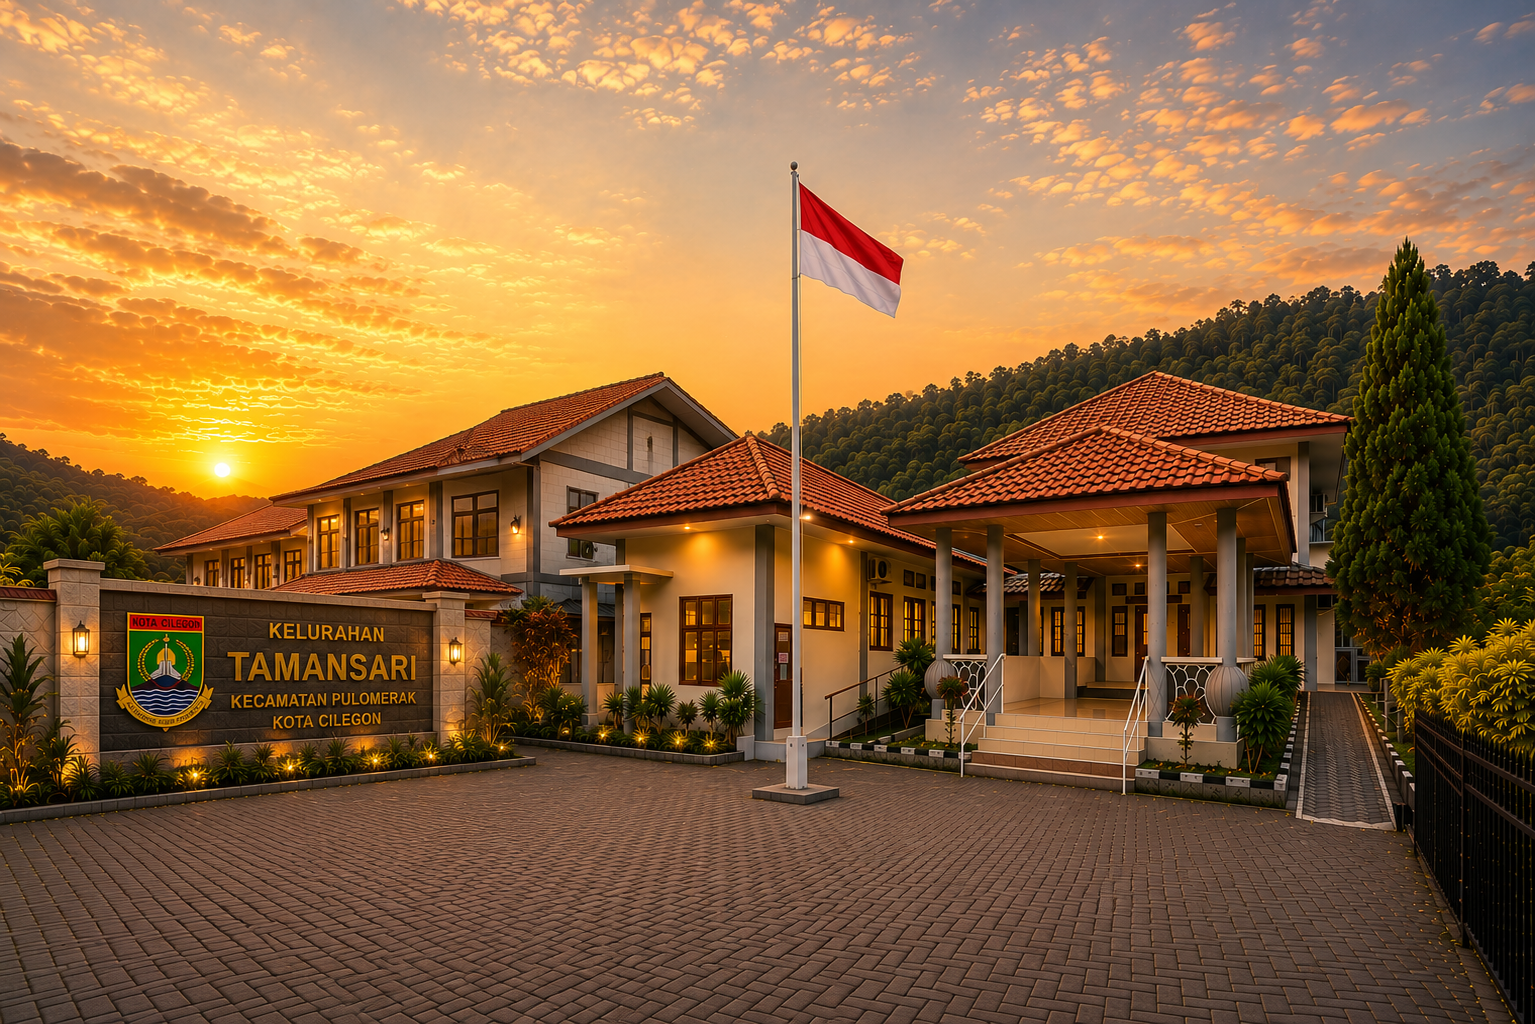
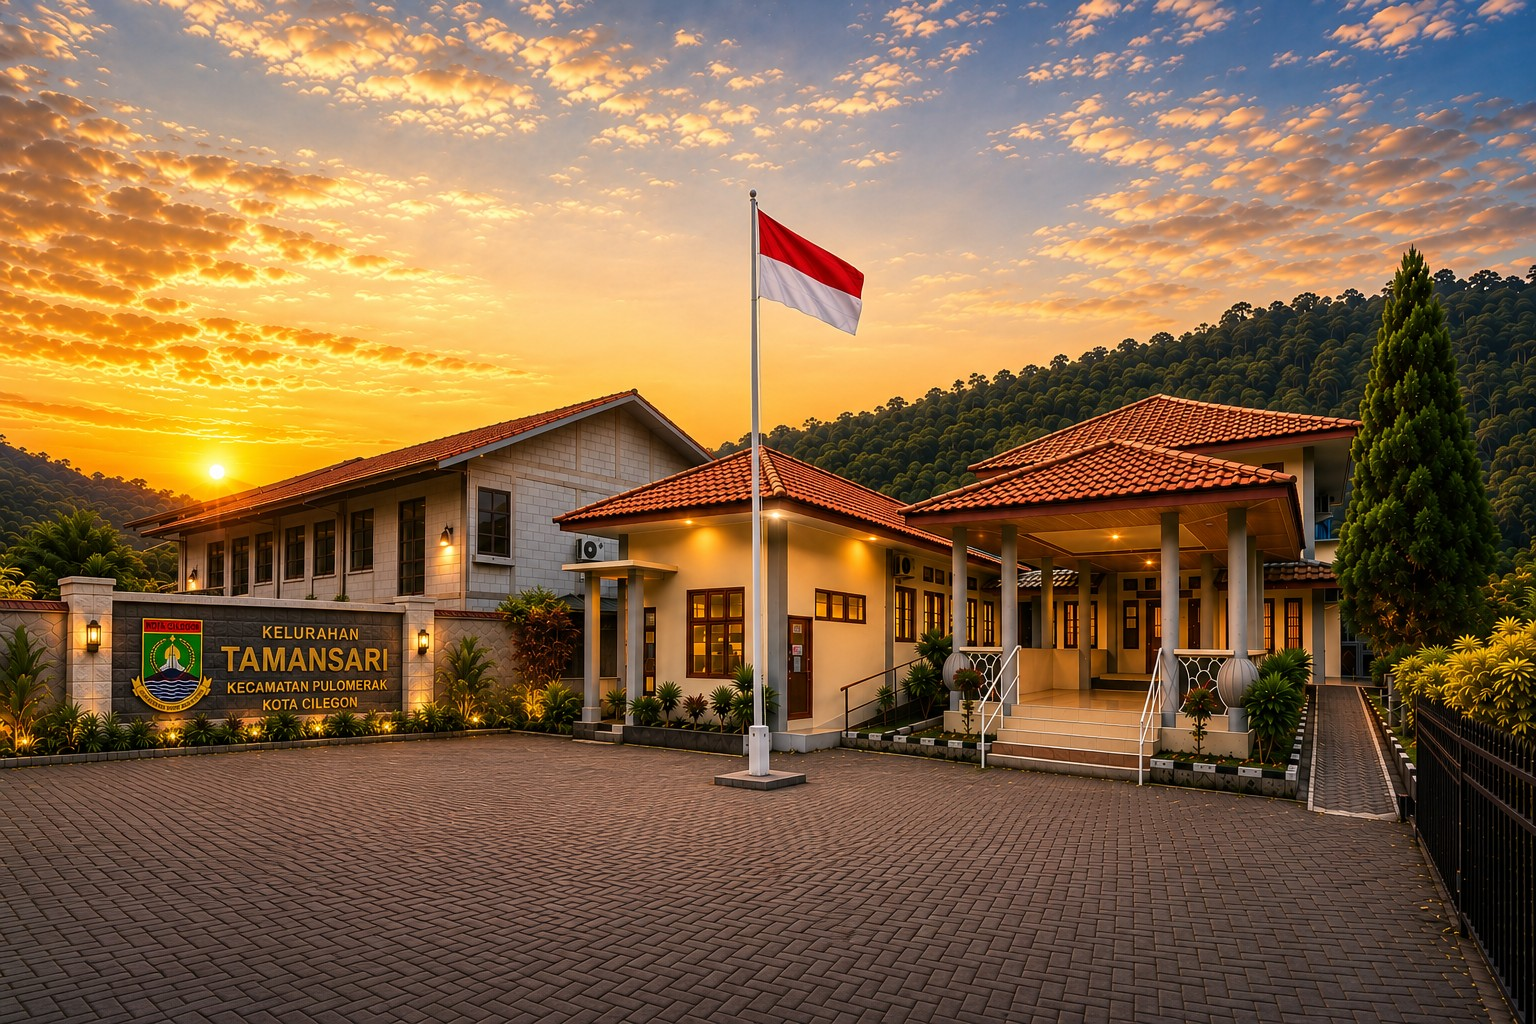
hapus login warga di hamburger

diff --git a/components/layout/navbar.tsx b/components/layout/navbar.tsx
@@ -177,24 +177,6 @@ export function Navbar() {
                                 </div>
 
                                 <div className="mt-8 space-y-2">
-                                    <div className="rounded-2xl border border-border-soft bg-gov-50/50 p-3">
-                                        <p className="flex items-center gap-2 px-2 pb-2 text-xs font-black uppercase tracking-[.18em] text-accent-600"><UserRound size={14} /> Akun Warga</p>
-                                        {user ? (
-                                            <>
-                                                <p className="rounded-2xl bg-white px-4 py-3 text-sm font-black text-gov-950">{profile?.nama_lengkap ?? "Akun Warga"}</p>
-                                                {!isVerified(profile) ? <p className="mt-2 rounded-2xl bg-amber-50 px-4 py-3 text-xs font-bold leading-5 text-amber-700">Akun Anda sedang menunggu verifikasi.</p> : null}
-                                                <div className="my-2 h-px bg-gov-100" />
-                                                {wargaMenu.map(({ label, href, icon: Icon }) => <Link key={href} href={href as Route} onClick={() => setOpen(false)} className="flex items-center justify-between rounded-2xl px-4 py-3 text-base font-bold text-gov-950 transition hover:bg-white"><span className="flex items-center gap-3"><Icon size={18} className="text-gov-800" />{label}</span><ChevronRight size={18} className="text-slate-400" /></Link>)}
-                                                <button type="button" onClick={signOut} className="flex w-full items-center justify-between rounded-2xl px-4 py-3 text-base font-bold text-red-600 transition hover:bg-white">Keluar<LogOut size={18} /></button>
-                                            </>
-                                        ) : (
-                                            <>
-                                                <Link href="/login" onClick={() => setOpen(false)} className="flex items-center justify-between rounded-2xl px-4 py-3 text-base font-bold text-gov-950 transition hover:bg-white"><span className="flex items-center gap-3"><LogIn size={18} className="text-gov-800" />Masuk</span><ChevronRight size={18} className="text-slate-400" /></Link>
-                                                <Link href="/register" onClick={() => setOpen(false)} className="flex items-center justify-between rounded-2xl px-4 py-3 text-base font-bold text-gov-950 transition hover:bg-white"><span className="flex items-center gap-3"><UserPlus size={18} className="text-gov-800" />Daftar Akun</span><ChevronRight size={18} className="text-slate-400" /></Link>
-                                                <Link href="/login?mode=forgot" onClick={() => setOpen(false)} className="flex items-center justify-between rounded-2xl px-4 py-3 text-base font-bold text-gov-950 transition hover:bg-white"><span className="flex items-center gap-3"><KeyRound size={18} className="text-gov-800" />Lupa Password</span><ChevronRight size={18} className="text-slate-400" /></Link>
-                                            </>
-                                        )}
-                                    </div>
                                     {mobileNav.map((item) => (
                                         <Link
                                             key={item.href}
@@ -229,6 +211,7 @@ export function Navbar() {
         </header>
     );
 }
+
 
 
 
